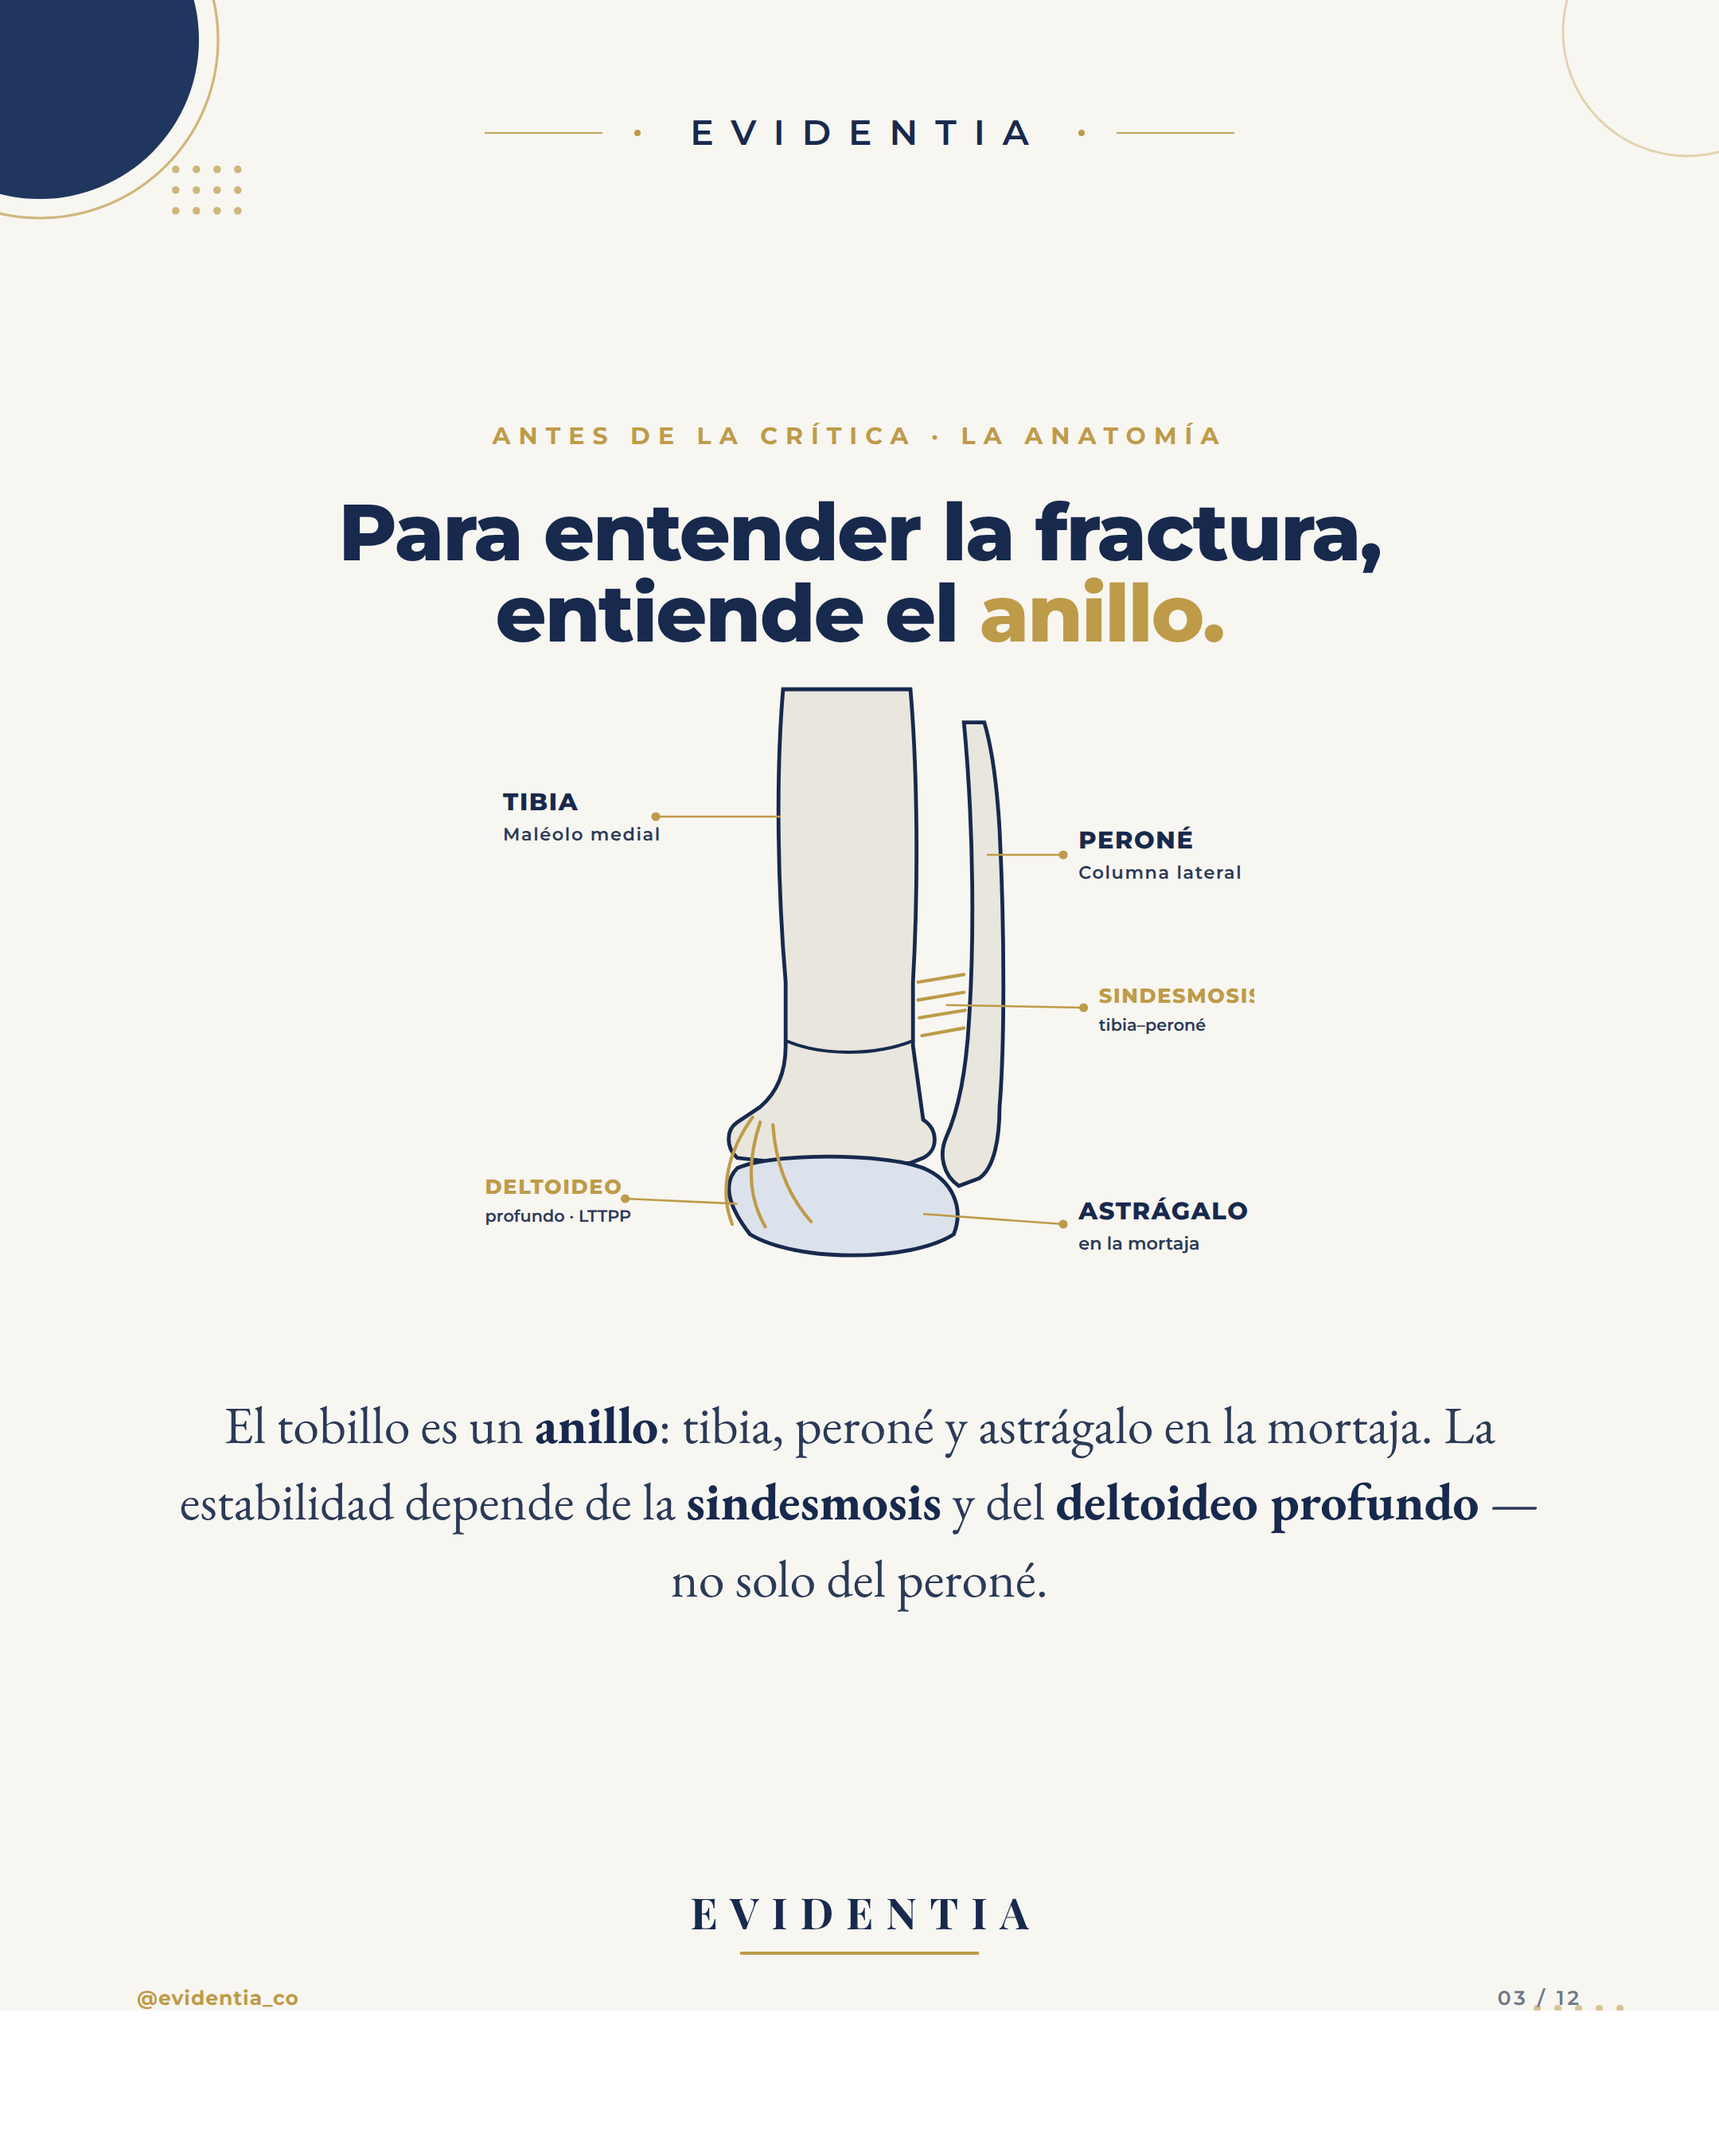
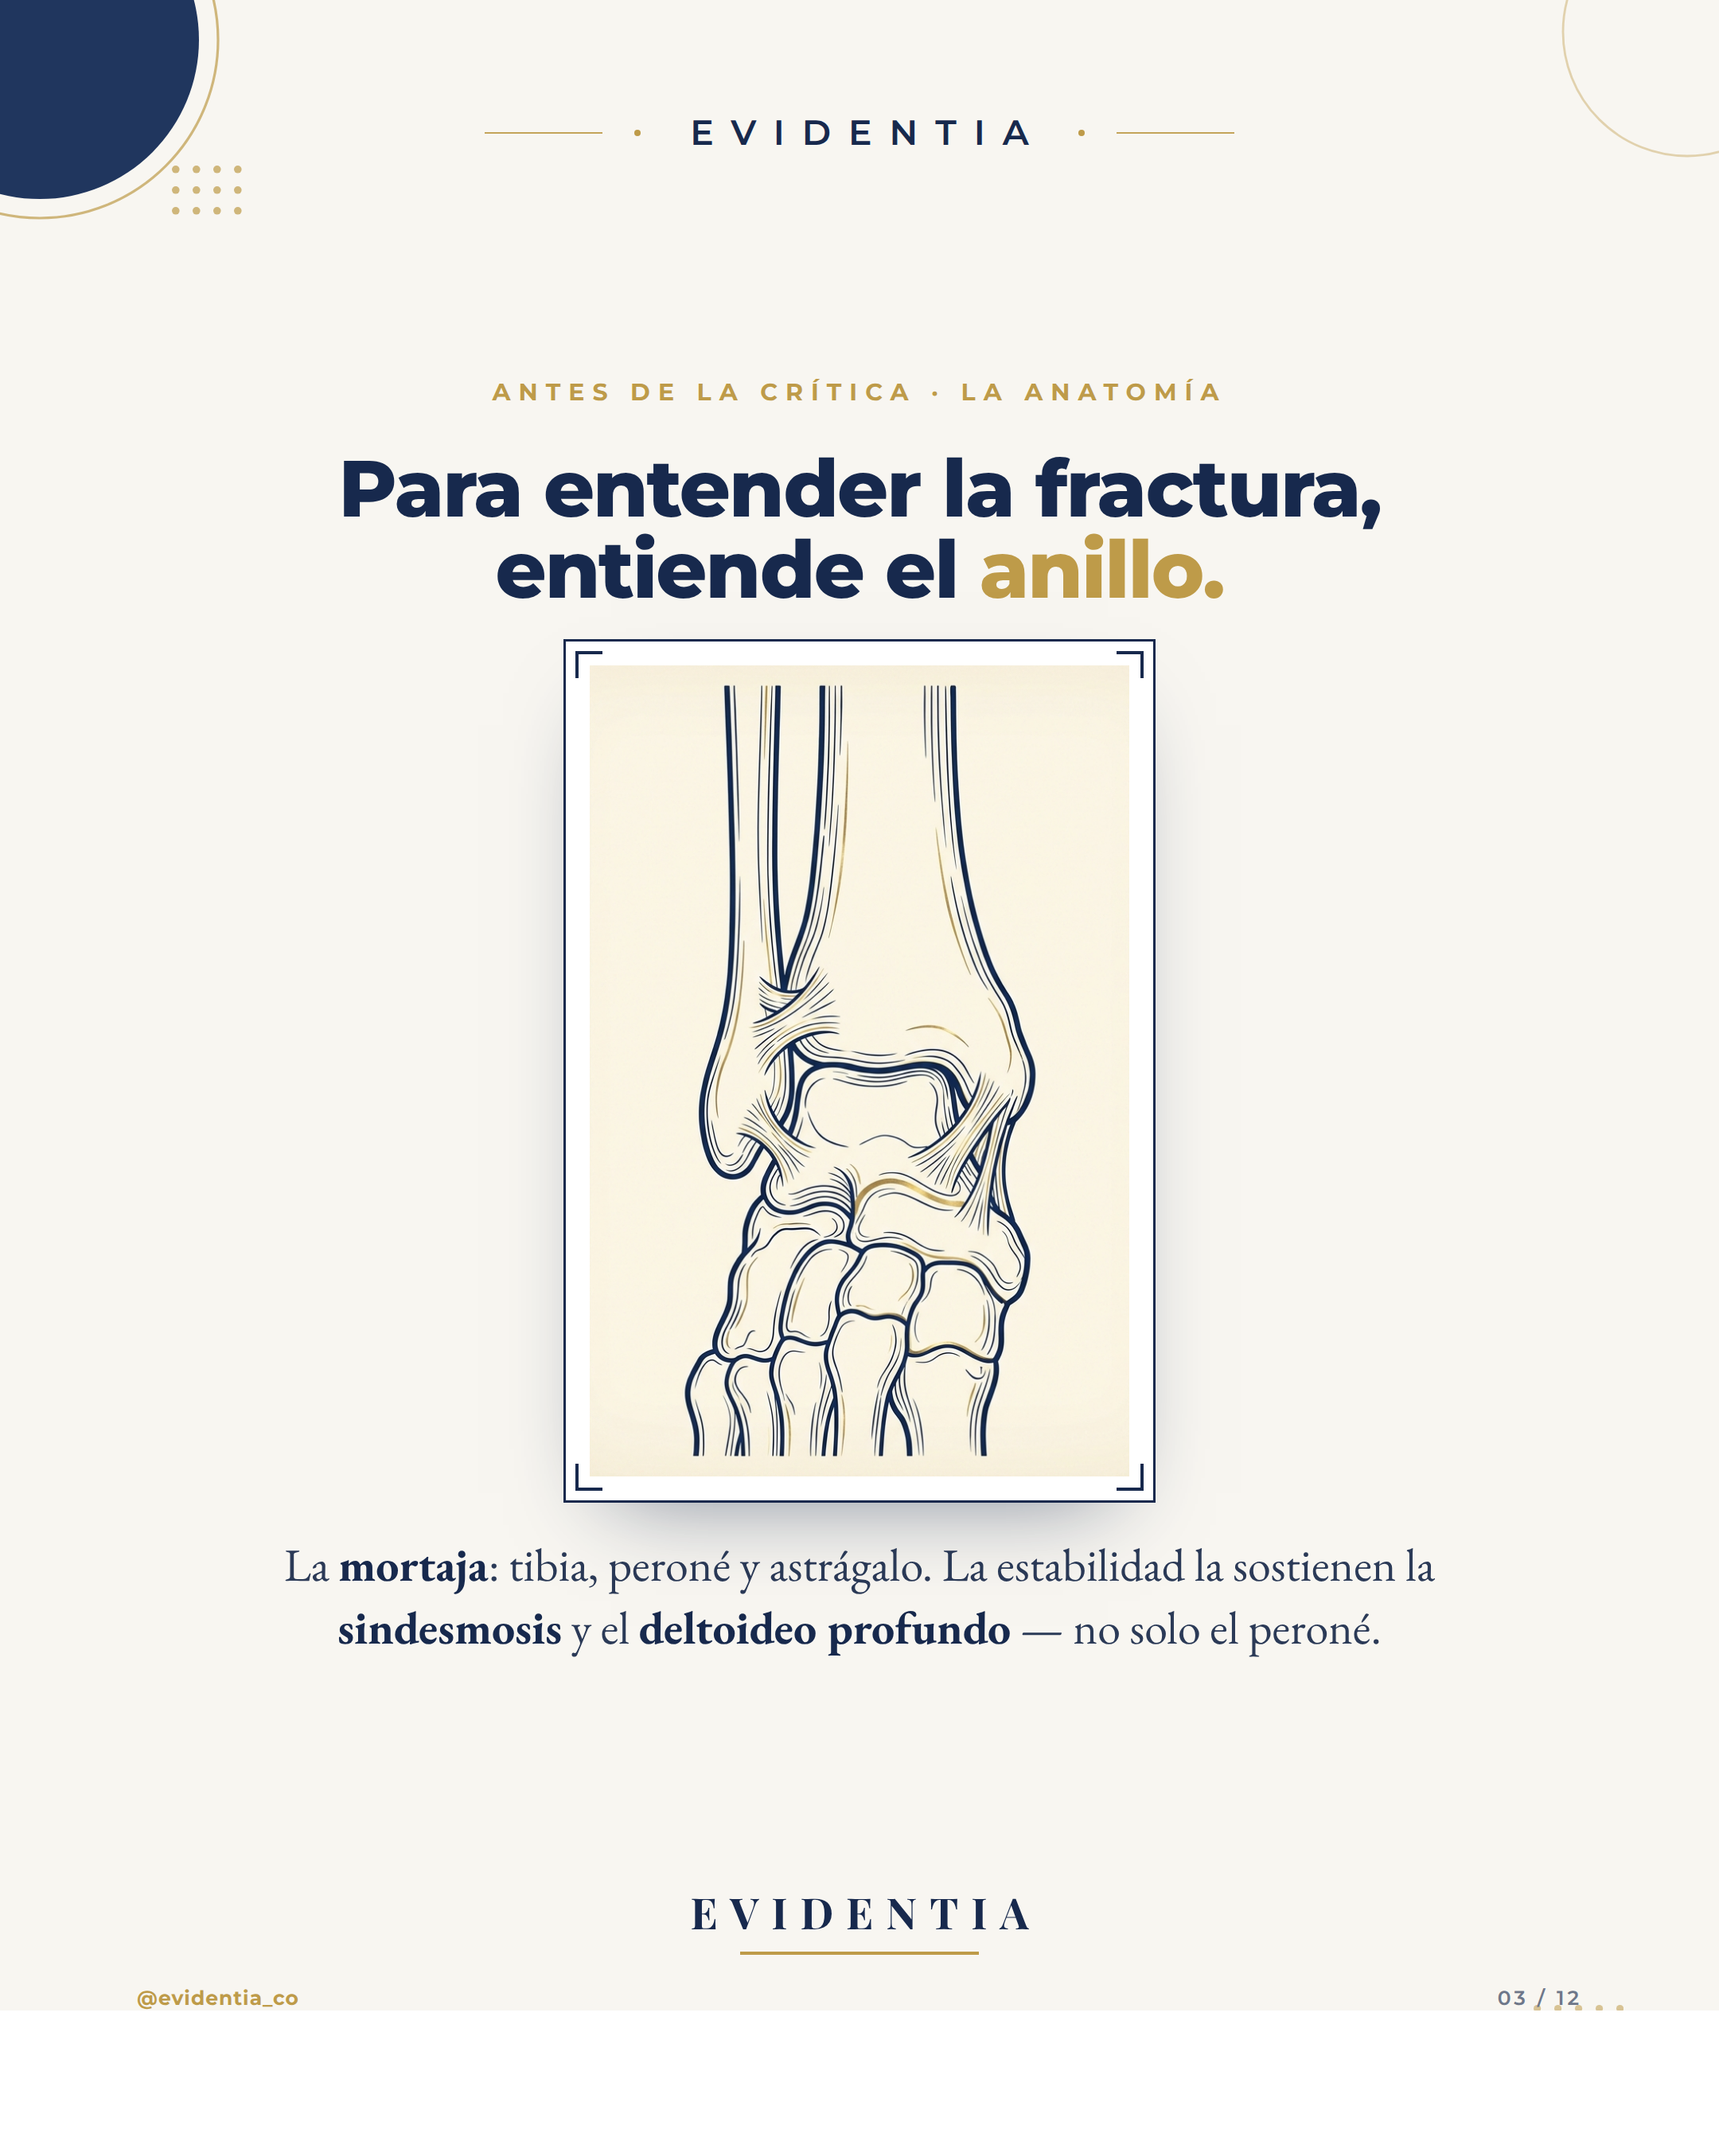
EVIDENTIA carousel: replace anatomy SVG with AI-generated illustration
Slide 3 now uses a professional AI-generated ankle illustration (Higgsfield /
Nano Banana) in the brand navy/gold, framed as a medical plate, replacing the
earlier vector diagram. Add the asset + note under assets/marca/.

diff --git a/examples/evidentia-carrusel-maleolo-peroneo/src/build3.py b/examples/evidentia-carrusel-maleolo-peroneo/src/build3.py
@@ -1,6 +1,7 @@
 # -*- coding: utf-8 -*-
 import os
 from figb64 import FIG
+from anat_b64 import ANAT
 from orn import dotgrid, bulb_magnifier, diamond_rule, laurel_crest, ankle_anatomy, NAVY, NAVY2, GOLD, GOLD2
 
 OUT="carousel3"; TOTAL=12
@@ -201,10 +202,13 @@ add(f'''
 # 03 ANATOMY (foundation)
 add(f'''
   <div class="kick" style="text-align:center;width:100%;">Antes de la crítica · La anatomía</div>
-  <h1 class="h-md" style="text-align:center;width:100%;">Para entender la fractura,<br>entiende el <span class="gd" style="color:{GOLD};">anillo.</span></h1>
-  <div style="display:flex;justify-content:center;width:100%;margin:6px 0 2px;">
-    <div style="width:496px;">{ankle_anatomy()}</div></div>
-  <p class="lead" style="text-align:center;max-width:880px;margin:0 auto;">El tobillo es un <b>anillo</b>: tibia, peroné y astrágalo en la mortaja. La estabilidad depende de la <b>sindesmosis</b> y del <b>deltoideo profundo</b> — no solo del peroné.</p>
+  <h1 class="h-md" style="text-align:center;width:100%;margin-bottom:18px;">Para entender la fractura,<br>entiende el <span class="gd" style="color:{GOLD};">anillo.</span></h1>
+  <div style="display:flex;justify-content:center;width:100%;">
+    <div class="capf lite" style="width:372px;">
+      <img src="{ANAT}">
+      <span class="tick t1"></span><span class="tick t2"></span><span class="tick t3"></span><span class="tick t4"></span>
+    </div></div>
+  <p class="capnote" style="text-align:center;max-width:860px;margin:20px auto 0;">La <b>mortaja</b>: tibia, peroné y astrágalo. La estabilidad la sostienen la <b>sindesmosis</b> y el <b>deltoideo profundo</b> — no solo el peroné.</p>
 ''', kind="content")
 
 # 04 STATEMENT — diseño

diff --git a/examples/evidentia-carrusel-maleolo-peroneo/assets/marca/ANATOMIA.md b/examples/evidentia-carrusel-maleolo-peroneo/assets/marca/ANATOMIA.md
@@ -1,0 +1,7 @@
+# Ilustración de anatomía (slide 3)
+
+`anatomia-tobillo-nanobanana.png` — ilustración **generada por IA** (Higgsfield ·
+Nano Banana) a partir de un prompt en la paleta de marca (navy #17294D + oro #BE9B49).
+Vista AP del tobillo: tibia, peroné y astrágalo en la mortaja, con sindesmosis y
+ligamentos. Uso ilustrativo/educativo; no es una fotografía de paciente ni una
+figura de una publicación.
